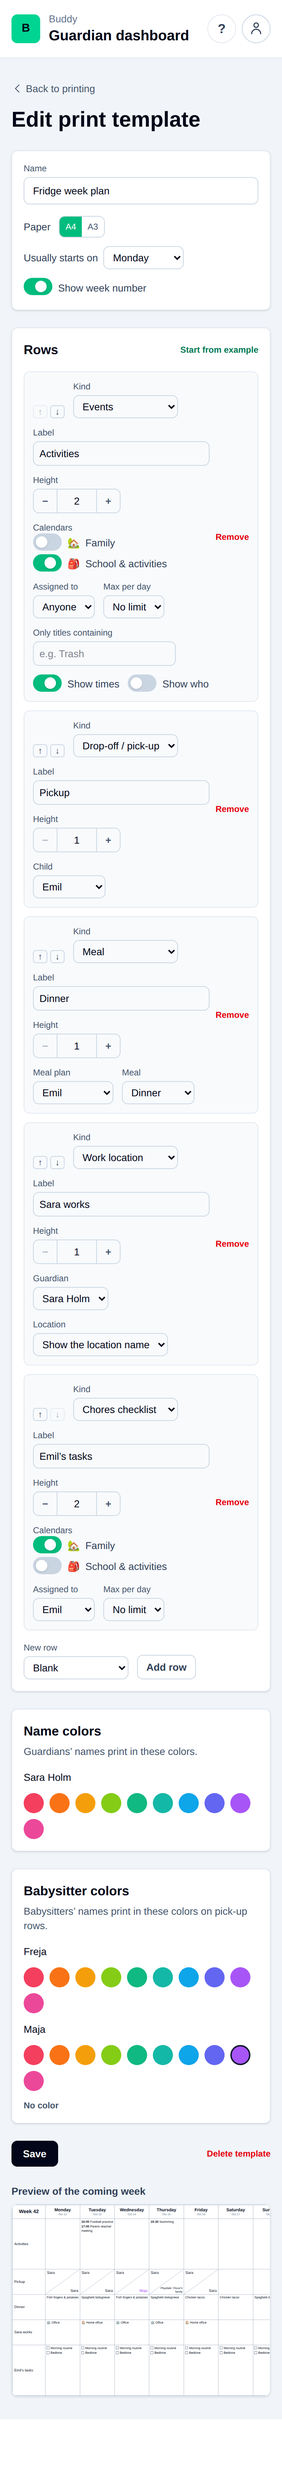
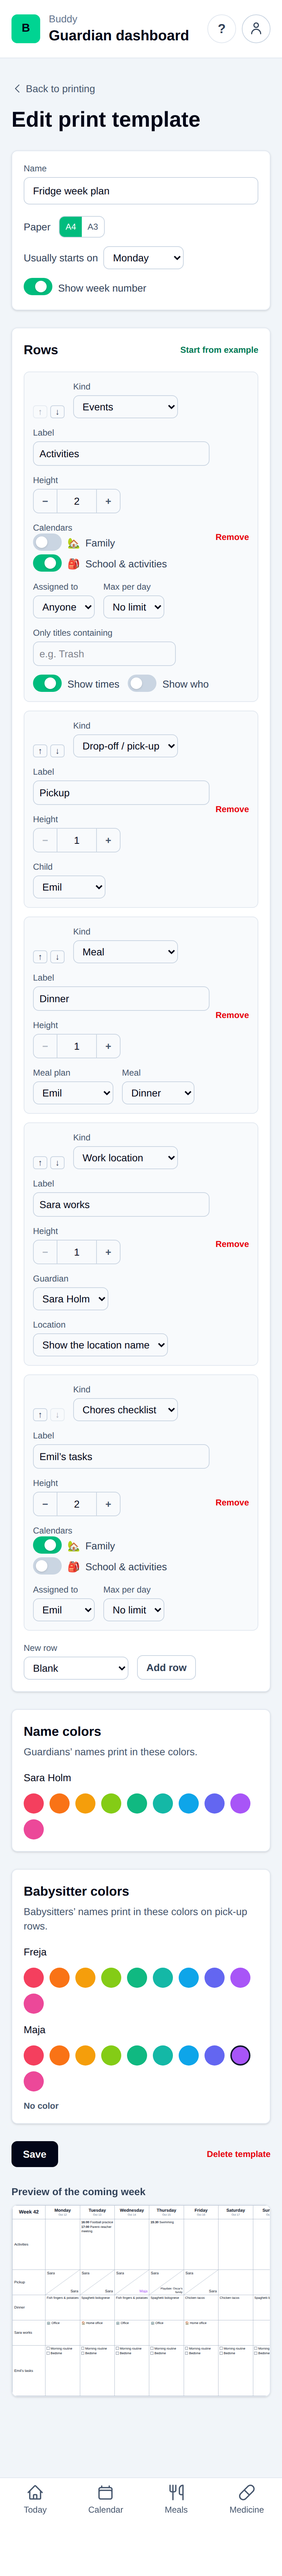
docs(responsive): record the phone tab bar and capture it at the page end
Decision 6 is reopened with the chosen tabs (Today, Calendar, Meals,
Medicine; no More tab) and Phase 5 is marked implemented. Full-page
screenshots now put the fixed tab bar back in the flow while capturing,
so it shows at the end of the page instead of over content.

diff --git a/src/frontend/buddy/screenshots/capture.spec.ts b/src/frontend/buddy/screenshots/capture.spec.ts
@@ -61,10 +61,15 @@ for (const entry of SCREENSHOT_PAGES) {
     await expect(page.locator('app-loading-spinner')).toHaveCount(0);
     expect(errors, 'server errors while loading the page').toEqual([]);
 
+    const fullPage = entry.fullPage ?? true;
     await page.screenshot({
       path: join(screenshotsDirFor(testInfo.project.name), `${entry.name}.png`),
-      fullPage: entry.fullPage ?? true,
+      fullPage,
       animations: 'disabled',
+      // A full-page capture draws a `position: fixed` bar at the bottom of the first screen, on top
+      // of the content there. Put the phone tab bar back in the flow for the capture, so it shows at
+      // the end of the page, where it sits once you've scrolled to the bottom.
+      style: fullPage ? 'app-tab-bar > nav { position: static !important; }' : undefined,
     });
 
     // Checked after the screenshot, so a failing page still leaves its PNG to look at.

diff --git a/docs/frontend/analysis/responsive-layout.md b/docs/frontend/analysis/responsive-layout.md
@@ -1,9 +1,9 @@
 # Responsive layout: phone, tablet and wide desktop
 
-Status: Phases 0–4 implemented (overflow check and tablet size in the screenshot run; no page is
+Status: Phases 0–5 implemented (overflow check and tablet size in the screenshot run; no page is
 wider than a phone any more; shared `app-page` and `app-card` with responsive padding; touch-sized
 controls, a sticky header, and menus, popovers and the delete dialog that fit a phone; the four week
-tables become day lists where they don't fit). Phases 5–6 are proposed.
+tables become day lists where they don't fit; a guardian tab bar on phones). Phase 6 is proposed.
 
 ## Context
 
@@ -293,11 +293,10 @@ overflow-y-auto`, `max-w-[calc(100vw-2rem)]`, and the missing Pickup link. Make 
 - This keeps "Open account menu", which five e2e specs depend on, and the in-app help design,
   which rejected a drawer because it covers a 393px screen
   ([in-app-help.md](in-app-help.md)).
-- _Considered and deferred:_ a bottom tab bar on phones (Dashboard, Calendar, Meals, Medicine,
-  More). It's the more native pattern and would make the per-page "Back to dashboard" links
-  unnecessary, but it is a navigation redesign rather than a responsive fix. If guardians ask for
-  it, it is additive: a new `shell/tab-bar` shown with `sm:hidden`, with the menu kept for the
-  rest.
+- _Reopened in Phase 5:_ a bottom tab bar on phones, added next to the menu rather than replacing
+  it. The user chose four tabs (Today, Calendar, Meals, Medicine) and no "More" tab, so the account
+  menu keeps every link and the e2e specs that open it are unaffected. Pickup was considered as the
+  fourth tab; Medicine won. The per-page "Back to dashboard" links stay for tablet and desktop.
 
 ## Plan
 
@@ -408,9 +407,25 @@ Implemented, at the breakpoints in Decision 3:
   the DOM can now be the hidden copy.
 - `pickup-planning-and-daily-views.md`'s "Responsive behavior" section is updated to match.
 
-### Phase 5 -- (optional) tab bar
+### Phase 5 -- tab bar
 
-- Only if Decision 6 is reopened.
+Implemented:
+
+- `shell/tab-bar`: a `<nav>` ("Main" / "Hovedmenu") fixed to the bottom on phones only
+  (`sm:hidden print:hidden`, `z-30` like the header), four `routerLink` tabs with line icons and a
+  label, at least 56px tall. The active tab gets `aria-current="page"`, emerald semibold text and a
+  2px top bar; Today is active only on the exact dashboard route. Meals and Medicine follow the
+  `mealplans` and `medicines` feature flags.
+- Hidden on onboarding through `data: { hideTabBar: true }` on that route, read where the shell
+  already reads the help topic.
+- The page content gets `max-sm:pb-20`, and guardian pages with the bar get
+  `scroll-padding-bottom: 5rem` on phones, so nothing ends up behind it.
+- The meal and task picker lists moved from `z-20` to `z-40`, so they draw over the bar and the
+  header. `dropdown-position.ts` still counts the space behind the bar as room below, so a list
+  opening downward near the bottom can cover the bar.
+- Full-page documentation screenshots put the bar back in normal flow while capturing (Playwright's
+  `style` option), since a fixed bar would otherwise be drawn over content at the bottom of the
+  first screen.
 
 ### Phase 6 -- tablet and wide desktop
 
@@ -437,15 +452,16 @@ Implemented, at the breakpoints in Decision 3:
 | Touch targets           | At least 44px on `pointer-coarse:` for guardian pages; at least 44px always on child pages                                         |
 | Regression guard        | Overflow assertion in the screenshot run, plus a tablet project                                                                    |
 | Phase 0 rollout         | Landed first with a temporary `knownOverflow` list, removed again in Phase 1                                                       |
-| Phone navigation        | Fix the profile menu and make the header sticky; tab bar deferred                                                                  |
+| Phone navigation        | Profile menu fitted to a phone, sticky header, and a four-tab bar (Today, Calendar, Meals, Medicine) with no More tab              |
 
 ## Remaining open questions
 
 - **Which devices count as supported?** Lean: iPhone-size phones (≥375px), iPad portrait and
   landscape, and desktop up to 1920px. 320px phones should work without overflow but don't get
   their own layout.
-- **Bottom tab bar now or later?** Lean: later (Decision 6). It's additive, and the menu fix covers
-  today's problem.
+- **Danish tab labels.** "Hovedmenu" (the nav's accessible name; "Hovednavigation" is the
+  alternative) and "Mad" for the Meals tab ("Madplan" and "Måltider" were longer) want a native
+  speaker's check.
 - **Does the wide-desktop dashboard need three columns at all?** Lean: yes, but only the
   dashboard. Every other page keeps `max-w-7xl`.
 - **Does the tablet screenshot replace or add to the mobile one?** Lean: add, so there are three

diff --git a/docs/frontend/README.md b/docs/frontend/README.md
@@ -263,6 +263,12 @@ Two shared components hold the repeated spacing, so it is set in one place:
   the unnamed `<section>` it replaced; a card that should be a landmark adds `role="region"` and
   `aria-labelledby`.
 
+On phones the guardian shell adds a bottom tab bar
+([`shell/tab-bar`](../../src/frontend/buddy/src/app/features/guardian/shell/tab-bar/tab-bar.ts))
+with Today, Calendar, Meals and Medicine (the last two follow their feature flags). It is hidden
+from `sm` up, when printing and on onboarding (`data: { hideTabBar: true }`); the account menu in
+the sticky header keeps every link on all sizes.
+
 Child pages share **`app-child-page`**
 ([`features/child/child-page`](../../src/frontend/buddy/src/app/features/child/child-page/child-page.ts)):
 the warm background, a header with the page title (a back link to `/child`, or the logo on the
